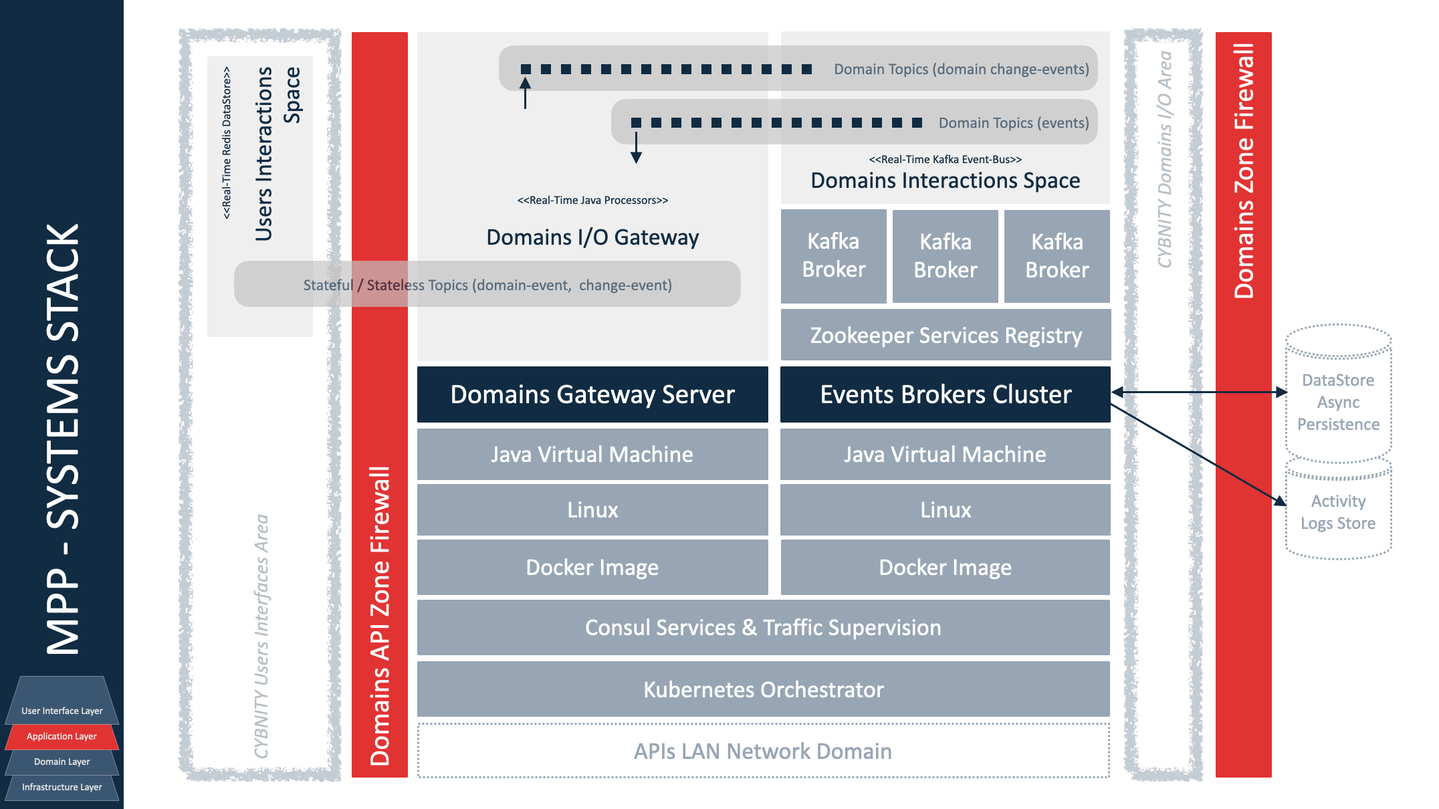
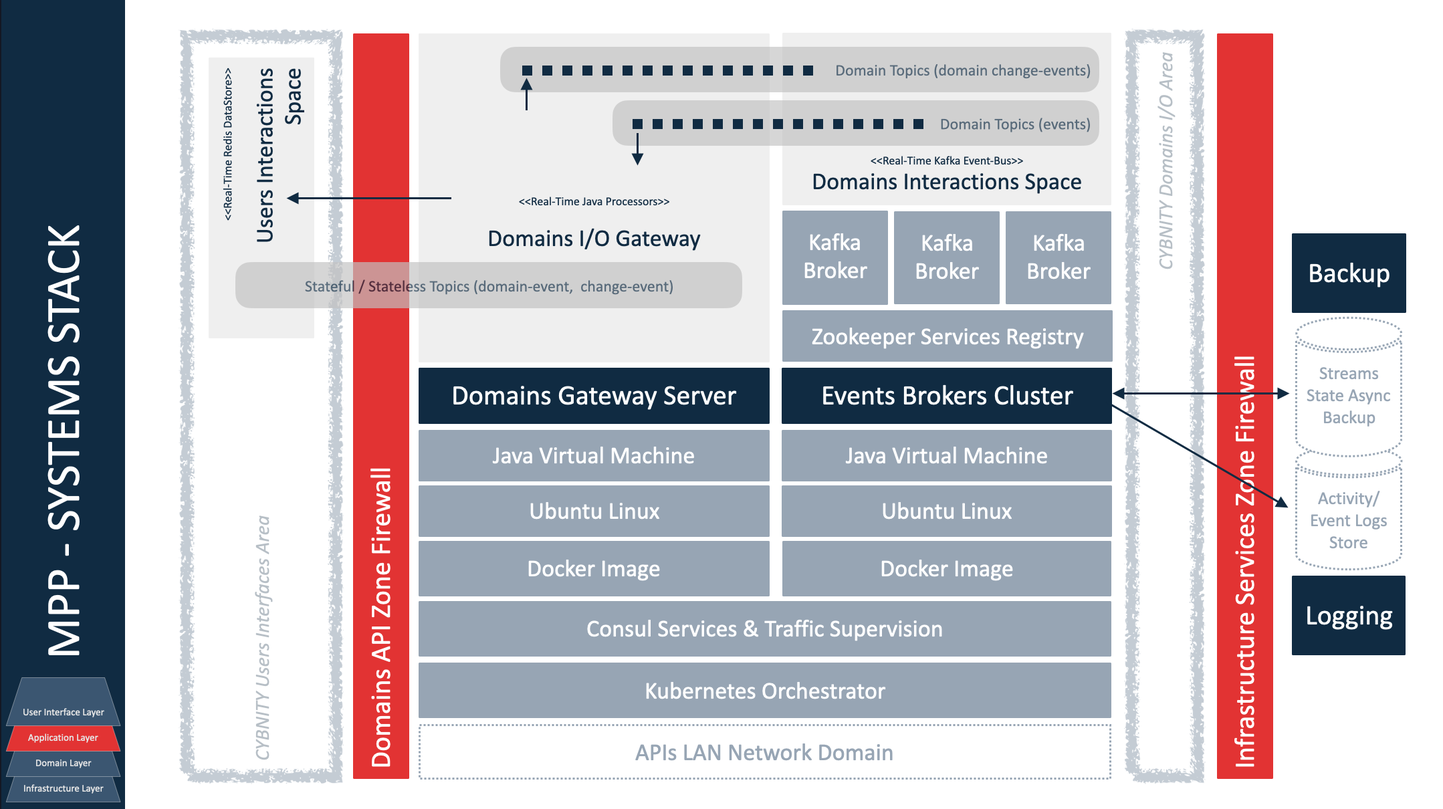
Add infrastructure layer and services

diff --git a/demonstrators-line/demonstrator-v0/technologies-stack-analysis.md b/demonstrators-line/demonstrator-v0/technologies-stack-analysis.md
@@ -59,10 +59,21 @@ Presentation of the retained implementation stack resulting of the analysis step
 
 ## UI Layer
 ![image](mpp-ui-technology-stack.png)
+
 ![image](mpp-ui-systems-stack.png)
+
 ## Application Layer
 ![image](mpp-app-technology-stack.png)
+
 ![image](mpp-app-systems-stack.png)
+
+## Application-Domain Layer
+![image](mpp-domain-technology-stack.png)
+
+![image](mpp-domain-systems-stack.png)
+
+## Infrastructure Layer
+![image](mpp-infrastructure-systems-stack.png)
 
 # STACK DEFINITION PROCESS CURRENT STATUS
 Find here the current selected technologies set which are finally retained as valid stack after their analysis steps passed with success. This is the conclusions that are coming as outputs from the technology analysis stream executed.
@@ -92,9 +103,8 @@ The current status of technology already in the analysis stream give a general v
 | APPLICATION INFRASTRUCTURE | Java Runtime Environment | Liberica JDK | `ALT` | | | |
 | APPLICATION INFRASTRUCTURE | Single-Sign-On | [Keycloack](https://www.keycloak.org/) | X | | | SAML2.0 protocol for user authentication with SSO |
 | APPLICATION INFRASTRUCTURE | UIAM | Identity/Access Mgt | X | | | Federation, RBAC or ABAC based on attributes); SPML ? (to create users/permissions as access provisioning |
-| APPLICATION INFRASTRUCTURE | Application Domains Access Hub | Infinispan | X | | In-memory distributed data store storing, managing, and processing data; [Doc](https://infinispan.org/) |
 | APPLICATION INFRASTRUCTURE | Secrets In Dynamic Infrastructure | [Vault](https://www.vaultproject.io/) | X | | | pki, credentials, passwords, api keys via secrets engines and authentication methods like JWT/LDAP/pki certif/Token for partners API integration/connectors |
-| APPLICATION INFRASTRUCTURE | End-to-end distributed tracing | Jaeger X | | | |
+| APPLICATION INFRASTRUCTURE | End-to-end distributed tracing | Jaeger | X | | |
 | INTEGRATION INFRASTRUCTURE | Users Interactions Space | Redis | `WIN` | | | Datastore with async ports and protocol for application exchanges (e.g domain events and requests); [Redis in action book](https://redis.com/ebook/redis-in-action/); [redis persistence](https://redis.com/redis-enterprise/technology/durable-redis/) |
 | INTEGRATION INFRASTRUCTURE | Services Registry & Coordination | Apache Zookeeper | `WIN` | | | Services and data registry, configuration management with resources directory (e.g Kafka broker instances) |
 | APPLICATION / DOMAIN | Transaction Engine | Saga | X | | | [Pattern documentation](https://microservices.io/patterns/data/saga.html) for microservices |
@@ -104,17 +114,16 @@ The current status of technology already in the analysis stream give a general v
 | INTEGRATION INFRASTRUCTURE | External Systems Integration & APIs Management | [Kong API Gateway](https://github.com/Kong/kong) | X | | | |
 | INTEGRATION INFRASTRUCTURE | External Systems Integration & APIs Management | Apiman.io (async) | X | | | |
 | INTEGRATION INFRASTRUCTURE | External Systems Integration & APIs Management | Akana | X | | | |
-| PERSISTENCE INFRASTRUCTURE | Streams State Async Backup | Cassandra | `WIN` | | | NoSQL database for backup of event streams (write optimized) |
-| PERSISTENCE INFRASTRUCTURE | Streams State Async Backup | MongoDB | `ALT` | | | Autonomous dynamic backup/recovery of distributed data, collection-oriented repository |
-| PERSISTENCE INFRASTRUCTURE | Centralized Data Persistence | [InfluxDB](https://www.influxdata.com/) | X | | | Time series data platform |
-| INDEXING INFRASTRUCTURE | Distributed Database Indexing | Elastic Search | X | | | |
-| INDEXING INFRASTRUCTURE | Distributed Database Indexing | Apache Solr | X | | | |
+| INDEXING INFRASTRUCTURE | Contents Indexing | Apache Solr | `WIN` | | | Lucene indexing and query of time series contents (e.g logs, backups), documents (e.g pdf) |
+| PERSISTENCE INFRASTRUCTURE | Activity / Event Logs Store | [InfluxDB](https://www.influxdata.com/) | `WIN` | | | Time series data platform as NoSQL database for backup of event streams (write optimized) efficient for event logging |
+| PERSISTENCE INFRASTRUCTURE | Streams State Async Backup | MongoDB | `WIN` | | | Autonomous dynamic backup/recovery of distributed data, collection-oriented repository |
+| PERSISTENCE INFRASTRUCTURE | In-Memory Data Grid | Infinispan | X | | In-memory distributed data store storing, managing, and processing data; [Doc](https://infinispan.org/) |
 | SECURITY INFRASTRUCTURE | Traffic Health, Configuration Mesh & Networking | Consul | `WIN FOR SERVER-SIDE` | | | Service registration and discovery, health checking, distributed key-value store, TLS, ACL to data & api, key generation, dynamic load balancing, multi-data centers support, data encryption, REST api, CLI, administration web-ui |
 | SECURITY INFRASTRUCTURE | Services Observability, Traffic & Security Monitoring | Istio | `ALT FOR SERVER-SIDE` | | | Settings mesh of container urls to maintain service information like  track/monitor services, load balancing, services discovery and registration; competitor of Consul about several capabilities |
-| MONITORING INFRASTRUCTURE | APIs Monitoring | Kibana | X | | | |
 | MONITORING INFRASTRUCTURE | APIs Monitoring | Grafana | X | | | |
+| MONITORING INFRASTRUCTURE | APIs Monitoring | OpenTelemetry | X | | | |
 | MONITORING INFRASTRUCTURE | APIs Monitoring | Jaeger | X | | | |
-| OPERATING INFRASTRUCTURE | Operating System | Linux Distribution 64bits kernel | X | | | (Alpine, Debian, Ubuntu?) |
+| OPERATING INFRASTRUCTURE | Linux Operating System | Ubuntu 64bits kernel | `WIN` | | | LTS minimal optimized version, security patch and vulnerability monitoring by Canonical |
 | OPERATING INFRASTRUCTURE | Executable System | Docker Image | `WIN` | | | |
 | OPERATING INFRASTRUCTURE | Infra-As-Code Execution | Microk8s | X | | | Kubernetes for laptop, local dev deployment |
 | OPERATING INFRASTRUCTURE | Infra-As-Code Execution | Minikube | X | | | Kubernetes for laptop, local dev deployment |
@@ -143,17 +152,21 @@ The criteria checked about advantages (ADV) are:
 
 | CANDIDATE TECHNOLOGY | Description | Comments | ANALYSIS RESULT |
 | :--- | :--- | :--- | :--- |
-| [Apache Solr](https://solr.apache.org/) |Scalable, fault tolerant, providing distributed indexing, replication and load-balanced querying, automated failover and recovery, centralized configuration<br>**ADV02:** Docker and Kubernetes compatible| | |
 | [Jaeger](https://www.jaegertracing.io/) |End-to-end distributed tracing| | |
-| MongoDB |NoSQL database (using an objective-oriented or data-oriented model)<br>**ADV03:** written in C++; store unstructured data; no function or stored procedure where the logic can be bound; not ACID-compliant; in-Memory or WiredTiger storage systems; deep query capability, which supports dynamic document queries using a dedicated language; can index any attribute<br>**ADV04:** used by Adobe, BOSH, Cisco, eBay, Facebook, Forbes, Google, SAP, and UPS|**Advantage:** very efficient in cases where significant scalability and caching for real-time analytics on unstructured data is required; high insert rate which is useful in a situation where the write load is high; internal memory for storing the working set (read access)<br>**Disadvantage:** is not built for transactional data (doesn’t support transactions); requires more storage than other well-known databases; doesn’t automatically clean up its disk space, so it must be done manually or with a restart; single master node|`OK`|
+| [Open Telemetry](https://grafana.com/oss/opentelemetry) |Tools, APIs, DSKs to instrument, generate, collect and export telemetry data (e.g metrics, logs, traces)| | |
+| Promotheus |Pull-based system as monitoring solution allowing applications to publish the required metrics fetched by Promotheus periodically; key/value datastore utilizing LevelDB for the indices and ecah metric is stored in its own file<br>**ADV03:** compatible with Grafana for data visualization; PromQL for query; alert manager with notification tasks (deduplication, silencing, grouping features)|**Advantage:** take less disk space than InfluxDB; focused on metrics recording<br>**Disadvantage:** independant server without multi-nodes support to support load growth|`OK for metrics recording only`|
+| InfluxDB |Open source Time-Series Database (TSDB) developed by Influxdata, primarily used to process monitoring data as monitoring solution<br>**ADV01:** MIT license<br>**ADV02:** Linux, Windows, OSX, Docker, Kubernetes, Raspberry Pi installations supported<br>**ADV02:** monolithic data storage for indices and metric values<br>**ADV03:** developed in Go language; sharding for partitioning method; primary database model as time series DBMS; secondary database model as spatial DBMS; high-availability storage of time-series data; use SQL queries to retrieve data (stored in a key-value pair fashion); support data via HTTP, TCP and JSON/UDP protocols; Kapacitor for background processing and data alerting; Chronograf for UI; integration with Grafana for visualization; InfluxQL query language; numeric data and strings predefined data types; no XML support; no Map Reduce capability|**Advantage:** easy to set up; great alternative to ElasticSearch if monitoring is main purpose|**Advantage:** query performance (45x better than Cassandra for read); 2X better than Cassandra on disk compression; suitable for event logging|`OK for event logging`|
+| [Apache Solr](https://solr.apache.org/) |Scalable to build search applications, fault tolerant, providing distributed indexing, replication and load-balanced querying, automated failover and recovery, centralized configuration<br>**ADV01:** Apache 2<br>**ADV02:** Docker and Kubernetes compatible; search engine based on Apache Lucene java library to create inverted index (page-centric data structure like convertion of document to words, is converted into a keyword-centric structure); HTTP/XML web api interface for query of JSON documents; scalable only via SolrCloud and zookeeper; eventual consistency concepts to ensure consistency in a distributed system; optimistic locking for transaction<br>**ADV03** text search and related operations; support JSON or XML; sharding (distributed way to store and process data); schema-less mapping; full-text search; real-time indexing; dynamic clustering; support RDBMs (Oracle, NoSQL); primary database model as search engine; secondary database model as spatial DBMS; customizable predefined data types and automatic typing; secondary index for all fields automatically indexed; Java API, RESTful HTTP/JSON API; commands triggered on index changes; Map Reduce capability (and streaming expressions to reduce)<br>**ADV04:** since 2004, with large community; [Stratio github project](https://github.com/Stratio/cassandra-lucene-index) for integration between Cassandra an Solr|**Advantage:** level of customization for search queries assembled and executed; flexibility for indexing several types of contents; index changes triggering; rich documentation and extension capabilities|`COOL`|
+| Elastic Search |Open source search engine<br>**ADV02:** based on Lucene library<br>**ADV03:** sharding (distributed way to store and process data); schema-less mapping|**Disadvantage:** performance problem feedbacks; cost growth in production usage; less open than Apache Solr|`KO`|
+| MongoDB |NoSQL database (using an objective-oriented or data-oriented model)<br>**ADV02:** Linux, Window, Mac OS supported<br>**ADV03:** written in C++; store unstructured data; no function or stored procedure where the logic can be bound; not ACID-compliant; in-Memory or WiredTiger storage systems; deep query capability, which supports dynamic document queries using a dedicated language; can index any attribute<br>**ADV04:** used by Adobe, BOSH, Cisco, eBay, Facebook, Forbes, Google, SAP, and UPS|**Advantage:** very efficient in cases where significant scalability and caching for real-time analytics on unstructured data is required; high insert rate which is useful in a situation where the write load is high; internal memory for storing the working set (read access)<br>**Disadvantage:** is not built for transactional data (doesn’t support transactions); requires more storage than other well-known databases; doesn’t automatically clean up its disk space, so it must be done manually or with a restart; single master node|`OK`|
 | Redis |**ADV02:** Active-Active and Active-Passive distributed architectures for high availability; search capabilities and a linearly scaling high performance <br>**ADV03:** different data structures including Hashes, Bitmaps, Lists, Sets, Strings supported|**Advantage:** NoSQL access speed|`OK`|
 | OrientDB |NoSQL graph database, focused on scalability and performance<br>**ADV03:** unified Multi-Model API for quicker deployment|**Advantage:** free clustering<br>**Disdavantage** compatibility issues, poor documentation, and the high cost of hosting|`KO`|
-| CouchDB |Open-source NoSQL Database written in the Erlang programming language; document-oriented database that can be deployed as a standalone application framework or with high-volume distributed applications, particularly web applications capable of handling huge volumes of loosely structured data<br>**AD02:** multi-node cluster<br>**ADV03:** JSON format to store data, organized into key-value pairs which are similar to the MapReduce format; provides interaction with external tools like HTTP proxy servers, load balancers; authentication and session support|**Disadvantage:** users have complained of an unfriendly user interface and lack of full-stack search;allows to run a single logical database server which can be run on any number of virtual machines|`KO`|
-| Apache [Cassandra](https://cassandra.apache.org/_/index.html) |NoSQL database (using a traditional model with a table structure, using rows and columns) written in Java with design objectives like full multi-master database replication, low latency, linear throughput increase with each additional processor, partitioned key-oriented queries; peer-to-peer architecture rather than master-slave architecture<br>**ADV01:** Apache 2.0 license<br>**ADV02:** [Docker install](https://cassandra.apache.org/_/quickstart.html) available; support for replication of data across multiple data centers; data is replicated to multiple nodes to give a fault-tolerance system and ensure durability; every node in the cluster is identical, is separate and can function independently; while Cassandra can be made to run on small servers for testing or development environments (including Raspberry Pis), a minimal production server [requires](https://cassandra.apache.org/doc/latest/cassandra/operating/hardware.html) at least 2 cores, and at least 8GB of RAM. Typical production servers have 8 or more cores and at least 32GB of RAM; multiple nodes (assortment of master nodes providing higher availability, compared to MongoDB’s limited availability)<br>**ADV03:** synchronous or asynchronous replication for each update; audit logging feature for operators tracking the DML, DDL, and DCL activity; partitioned wide column storage model with eventually consistent semantics; Cassandra Query Language (CQL); user-defined types, functions and aggregates; collection types including sets, maps, and lists; TLS/SSL for client authorization and [several security features](https://cassandra.apache.org/doc/latest/cassandra/operating/security.html);  Java 8/11 supported; [Audit logging](https://cassandra.apache.org/doc/latest/cassandra/new/auditlogging.html) for all database activity logged per-node as file-based records to a specified local filesystem directory (no additional database capacity is needed to store audit logs; latency of database operations is not affected); Ubuntu, CentOS, Debian or RPM [install](https://cassandra.apache.org/doc/latest/cassandra/getting_started/installing.html); lacks official documentation from Apache<br>**ADV04:** designed at Facebook using a staged event-driven architecture (SEDA) to implement a combination of Amazon’s Dynamo distributed storage and replication techniques and Google’s Bigtable data and storage engine model; used by Digg, Facebook, IBM, Instagram, Spotify, Netflix, and Reddit|**Disadvantage:** cluster only (min 3 servers are required for cluster);  not supported features (cross partition transactions, distributed joins, foreign keys or referential integrity); transactions slow down, meaning latency issues; no join or subquery support; doesn’t support aggregates<br>**Advantage:** high-performance database manager that easily handles massive amounts of data; optimized from the start for fast writes|`COOL`|
-| ArangoDB |NoSQL database management system as native multi-model database from the ground up, supporting key/value, document and graph models<br>![image](scalability-vs-complexity-by-arangoDB.png)<br>**ADV01:** Not open source<br>**ADV02:** Cloud service [managed version](https://cloud.arangodb.com/home?utm_source=arangodb_website&utm_medium=top_page&utm_campaign=traffic) ; single server, active-failover & cluster modes<br>**ADV03:** SQL-like query language and a flexible data model for key values, graphs, and documents; has a built-in search engine and a microservices framework; search queries with geo-locational aspects; AQL; replication sync/async; resolution conflict for Master/Master and Master/Agent modes; [ArangoDB vs Cassandra](https://www.arangodb.com/solutions/comparisons/arangodb-vs-cassandra/)<br>**ADV04:** supported by a large community of user|**Advantage:** multi-model document, graph or key/value store<br>**Disadvantage:** not open source solution|`KO`|
+| CouchDB |Open-source NoSQL Database written in the Erlang programming language; partitioned row store as document-oriented database that can be deployed as a standalone application framework or with high-volume distributed applications, particularly web applications capable of handling huge volumes of loosely structured data<br>**AD02:** multi-node cluster<br>**ADV03:** primarily database model as Wide column store; JSON format to store data, organized into key-value pairs which are similar to the MapReduce format; provides interaction with external tools like HTTP proxy servers, load balancers; authentication and session support|**Disadvantage:** users have complained of an unfriendly user interface and lack of full-stack search;allows to run a single logical database server which can be run on any number of virtual machines|`KO`|
+| Apache [Cassandra](https://cassandra.apache.org/_/index.html) |NoSQL database (using a traditional model with a table structure, using rows and columns) written in Java with design objectives like full multi-master database replication, low latency, linear throughput increase with each additional processor, partitioned key-oriented queries; peer-to-peer architecture rather than master-slave architecture<br>**ADV01:** Apache 2.0 license<br>**ADV02:** [Docker install](https://cassandra.apache.org/_/quickstart.html) available; support for replication of data across multiple data centers; data is replicated to multiple nodes to give a fault-tolerance system and ensure durability; every node in the cluster is identical, is separate and can function independently; while Cassandra can be made to run on small servers for testing or development environments (including Raspberry Pis), a minimal production server [requires](https://cassandra.apache.org/doc/latest/cassandra/operating/hardware.html) at least 2 cores, and at least 8GB of RAM. Typical production servers have 8 or more cores and at least 32GB of RAM; multiple nodes (assortment of master nodes providing higher availability, compared to MongoDB’s limited availability); BSD/Linux/OS X/Windows installation<br>**ADV03:** synchronous or asynchronous replication for each update; audit logging feature for operators tracking the DML, DDL, and DCL activity; partitioned wide column storage model with eventually consistent semantics; Cassandra Query Language (CQL); user-defined types, functions and aggregates; collection types including sets, maps, and lists; TLS/SSL for client authorization and [several security features](https://cassandra.apache.org/doc/latest/cassandra/operating/security.html);  Java 8/11 supported; [Audit logging](https://cassandra.apache.org/doc/latest/cassandra/new/auditlogging.html) for all database activity logged per-node as file-based records to a specified local filesystem directory (no additional database capacity is needed to store audit logs; latency of database operations is not affected); Ubuntu, CentOS, Debian or RPM [install](https://cassandra.apache.org/doc/latest/cassandra/getting_started/installing.html); lacks official documentation from Apache; proprietary protocol and Thrift APIs<br>**ADV04:** designed at Facebook using a staged event-driven architecture (SEDA) to implement a combination of Amazon’s Dynamo distributed storage and replication techniques and Google’s Bigtable data and storage engine model; used by Digg, Facebook, IBM, Instagram, Spotify, Netflix, and Reddit|**Disadvantage:** cluster only (min 3 servers are required for cluster);  not supported features (cross partition transactions, distributed joins, foreign keys or referential integrity); transactions slow down, meaning latency issues; no join or subquery support; doesn’t support aggregates<br>**Advantage:** high-performance database manager that easily handles massive amounts of data; optimized from the start for fast writes<br>**Disadvantage:** proprietary api|`KO`|
+| [ArangoDB](https://www.arangodb.com) |NoSQL database management system as native multi-model database from the ground up, supporting key/value, document and graph models<br>![image](scalability-vs-complexity-by-arangoDB.png); search engine capabilities<br>**ADV01:** Apache 2 open source version<br>**ADV02:** Cloud service [managed version](https://cloud.arangodb.com/home?utm_source=arangodb_website&utm_medium=top_page&utm_campaign=traffic) ; single server, active-failover & cluster modes<br>**ADV03:** SQL-like query language and a flexible data model for key values, graphs, and documents; has a built-in search engine and a microservices framework; search queries with geo-locational aspects; AQL; replication sync/async; resolution conflict for Master/Master and Master/Agent modes; [ArangoDB vs Cassandra](https://www.arangodb.com/solutions/comparisons/arangodb-vs-cassandra/); full-text search|**Advantage:** multi-model document, graph or key/value store<br>**Disadvantage:** lack of community|`KO`|
 | Istio |Service mesh dedicated infrastructure layer for add to applications to transparently add capabilities like observability, traffic management, and security; A service mesh also often addresses more complex operational requirements, like A/B testing, canary deployments, rate limiting, access control, encryption, and end-to-end authentication; secure, connect, and monitor services (e.g load balancing, service-to-service authentication, and monitoring)<br>**ADV03:** communication in a cluster with TLS encryption; automatic load balancing for HTTP, gRPC, WebSocket, and TCP traffic; control of traffic behavior with routing rules, retries, failovers, and fault injection; pluggable policy layer and configuration API supporting access controls, rate limits and quotas; automatic metrics, logs, and traces for all traffic within a cluster; circuit breaker black-box implementation by configuration only; [SpringCloud to Istio example](from-SpringCloud-to-Istio.pdf)|**Advantage:** non-intrusive traffic management, security and observability<br>**Disadvantage:** Istio needs minimum of 3 instance running for failure tolerance; platform isn’t as lightweight as other options|`OK`|
 | Apache Zookeeper |Maintaining configuration information, naming, providing distributed synchronization, and providing group services<br>**ADV01:** Apache 2.0 license<br>**ADV02:** concept and [performance documentation](https://zookeeper.apache.org/doc/r3.8.0/zookeeperOver.html); Java 1.8+ compatible<br>**ADV03:** Java; Spring/Kafka/Spring Boot support; [documentation](https://zookeeper.apache.org/doc/r3.8.0/index.html); java library for client; [system requirements](https://zookeeper.apache.org/doc/r3.8.0/zookeeperAdmin.html#sc_systemReq); [java example](https://zookeeper.apache.org/doc/r3.8.0/javaExample.html); stand-alone mode and [unique local instance for developer station](https://zookeeper.apache.org/doc/r3.8.0/zookeeperStarted.html#sc_InstallingSingleMode); JMX supported; Grafana, InfluxDB and Prometeus monitoring system supported|**Advantage:** embeddable in Java service |`OK`|
-| Consul |Services discovery (e.g via DNS) with centralized registry; [Architecture](https://www.consul.io/docs/architecture); Distributed key-value store<br>**ADV02:** 512KB RAM limit per key/value size on Consul KV agent datastore; Linux OS (x86, ARM64) compatible; agent installed on OS layer (not embeddable in application infrastructure layer)<br>**ADV03:** [documentation](https://learn.hashicorp.com/collections/consul/getting-started) for deployment on local/server infrastructure; tracking in real-time of services update, health status (registering via HTTP API, query API, services dependencies identification); automating network tasks; securization of service-to-service communications (authentication, authorization, TLS encryption); access control (ACLs) of end points and centralized traffic management; Kubernetes/miniKube compatible (consul client on each Kubernetes cluster node); Consul API gateway for datacenter, network spaces routing/isolation/access control; Consul KV on client as application parameters (e.g key/value) datastore pluggable with Vault (e.g secret values); [Consul ESM](https://github.com/hashicorp/consul-esm) (External Service Monitoring) for auto-check of health status regarding external systems; [embedded consul](https://github.com/pszymczyk/embedded-consul) for integration tests; Java configuration's properties directly from [consul library](https://github.com/Magnetme/consultant) or [CFG4j](http://www.cfg4j.org/); Zero-conf HTTPS load balancing and TCP router with [Fabio project](https://github.com/fabiolb/fabio); [mirror content of git key/value](https://github.com/breser/git2consul) in Consul KV datastore<br>**ADV04:** supported by Hashicorp|**Advantage:** customization of apps and container for automatic CMDB replacement by configurations meshing system; Zero trust approach for networking; easy deployment of observability for applications and containers; Cloud manager offer with price per hour of runtime for easy deployment by CYBNITY customers; high-availability<br>**Disadvantage:** mature and feature-rich, it can be more difficult to master; deployment focused for datacenter/cloud deployment with independent lead servers (see [architecture prerequisites](https://learn.hashicorp.com/tutorials/consul/reference-architecture?in=consul/production-deploy#deployment-system-requirements)), so how best use for stand-alone deployment on mobile platform with limited capacities?|`OK` for server deployment|
+| Consul |Services discovery (e.g via DNS) with centralized registry; [Architecture](https://www.consul.io/docs/architecture); Distributed key-value store<br>**ADV02:** 512KB RAM limit per key/value size on Consul KV agent datastore; Linux OS (x86, ARM64) compatible; agent installed on OS layer (not embeddable in application infrastructure layer)<br>**ADV03:** [documentation](https://learn.hashicorp.com/collections/consul/getting-started) for deployment on local/server infrastructure; tracking in real-time of services update, health status (registering via HTTP API, query API, services dependencies identification); automating network tasks; securization of service-to-service communications (authentication, authorization, TLS encryption); access control (ACLs) of end points and centralized traffic management; Kubernetes/miniKube compatible (consul client on each Kubernetes cluster node); Consul API gateway for datacenter, network spaces routing/isolation/access control; Consul KV on client as application parameters (e.g key/value) datastore pluggable with Vault (e.g secret values); [Consul ESM](https://github.com/hashicorp/consul-esm) (External Service Monitoring) for auto-check of health status regarding external systems; [embedded consul](https://github.com/pszymczyk/embedded-consul) for integration tests; Java configuration's properties directly from [consul library](https://github.com/Magnetme/consultant) or [CFG4j](http://www.cfg4j.org/); Zero-conf HTTPS load balancing and TCP router with [Fabio project](https://github.com/fabiolb/fabio); [mirror content of git key/value](https://github.com/breser/git2consul) in Consul KV datastore<br>**ADV04:** supported by Hashicorp|**Advantage:** customization of apps and container for automatic CMDB replacement by configurations meshing system; Zero trust approach for networking; easy deployment of observability for applications and containers; Cloud manager offer with price per hour of runtime for easy deployment by CYBNITY customers; high-availability<br>**Disadvantage:** mature and feature-rich, it can be more difficult to master; deployment focused for datacenter/cloud deployment with independent lead servers (see [architecture prerequisites](https://learn.hashicorp.com/tutorials/consul/reference-architecture?in=consul/production-deploy#deployment-system-requirements)), so how best use for stand-alone deployment on mobile platform with limited capacities?|`OK for server deployment`|
 | Kafka Streams |Client library for real-time applications and microservices managing input and output data stored in Kafka clusters; processing code runs inside their application<br>**ADV02** Supports exactly-once processing semantics to guarantee that each record will be processed once and only once even when there is a failure on either Streams clients or Kafka brokers in the middle of processing; supports bare-metal hardware, virtual machines, and containers in on-premise as well as cloud environments<br>**ADV03:** Source processors for bridge of input message event, Sink processors for return result to frontend integration hub; Windowing (group records that have the same key for stateful operations such as aggregations or joins into so-called windows); State stores for stateful operations; APIs to store and query data required for processing; servers with [Kafka Connect tool](https://kafka.apache.org/documentation/#connect) for events integration from/to source with Kafka topics that allow development of connectors; [Producer API](https://kafka.apache.org/documentation.html#producerapi) for send event streams to topics; [Consumer API](https://kafka.apache.org/documentation.html#consumerapi) to read streams of data from topics; [Admin API](https://kafka.apache.org/documentation.html#adminapi); [Stream API](https://kafka.apache.org/documentation/streams/); [usage presentations](https://cwiki.apache.org/confluence/display/KAFKA/Kafka+papers+and+presentations)<br>**ADV04:** [several companies](https://cwiki.apache.org/confluence/display/KAFKA/Powered+By) using Kafka; 2016 project started|**Disadvantage:** tightly coupled with Kafka; partial distributed; none CEP (only based on developed handles)|`OK`|
 | Apache Flink |Cluster framework and stateful computations over data streams (e.g stream/batch processing, state mgt, event-time processing, live stream processing of data) for event-driven applications, data analytics or pipeline applications, stateful functions; processing code is deployed and run as a job in the Flink cluster<br>**ADV01:** Apache 2.0<br>**ADV02:** stand-alone cluster on bare-metal hardware, or deployment on YARN/Apache Mesos/Kubernetes; optimized for streaming than for batch processing (e.g better than Apache Spark for real-time processing); print of observed windows more efficient than Kafka streams (see [comparison test](https://dzone.com/articles/kafka-stream-kstream-vs-apache-flink))<br>**ADV03:** docker image; Flink web UI; detailed documentation; FlinkCEP; several connectors (e.g Kafka, ElasticSearch, RabbitMQ); Machine Learning (ML) library for ML pipelines; Gelly (for graph processing); batch processing framework; Maven support; print the pipeline topology (e.g from [web app](https://flink.apache.org/visualizer/)); self-monitoring; [Redis Connector](https://bahir.apache.org/docs/flink/current/flink-streaming-redis/); [Apache Flink Connectors](https://flink-packages.org/)<br>**ADV04:** 2015 project started|**Advantage:** better than Apache Storm for real-time, and good complement to Apache Spark for large data volume processing; full distributed (cluster deployment, HA, fault tolerant) requiring compute resources like Mesos/Kubernetes in order to execute applications (possible run into a stand-alone cluster); native support of CEP; variety of deployment modes; support for multiple third-party sources and sink<br>**Disadvantage:** Eclipse IDe not supported; IntelliJ recommended|`COOL`|
 | [ReactJS](https://reactjs.org/) |Focused on View creation based on JS; update and render just the right components when the data changes (direct link between data state to UI); declarative views; build encapsulated components that manage their own state, then compose them; component logic is written in JavaScript<br>**ADV02:** usage of virtual DOM object (better performance than direct read of DOM); rendering on client or server side<br>**ADV03:** [ReactNative](https://reactnative.dev/) for native Android/iOS applications frontend; XML-like syntax called JSX; maintain internal state data; customizable rendering by components; maven plugin<br>**ADV04:** Facebook project/sponsor; in 2020, React had 1,390 contributions with Angular possessing 1,129 contributions|**Advantage:** data state stored in client side's memory; 10x faster than Angular for view refresh (thanks virtual DOM); data binding capabilities is better for large interactions and rich gui; large support community<br>**Disadvantage:** focused on view rendering, requiring integration with a MVC framework|`COOL`|
@@ -165,12 +178,15 @@ The criteria checked about advantages (ADV) are:
 | Spring Boot |**ADV01:** open source<br>**ADV02:** faster I/O operations compared to Quarkus; robust Dependency Injection Container; mature templates (e.g Spring MVC, ThymeLeaf)<br>**ADV03:** excellent documentation; auto-configuration; YAML support; template design (Thymeleaf, Freemarker, Mustache) pattern in pom.xml; more secure than Quarkus; embed Tomcat/Jetty without WAR file; metrics, health checks, externalized configuration; messaging support for ActiveMQ, RabbitMQ, Apache Kafka; authorization strategies (basic, form login, JWT, SAML, LDAP); OAuth2 support; actuators (expose operational information about running application like health, metric, info, dump, env...)<br>**ADV04:** community support|**Advantage:** SAML supported; several template languages<br>**Disadvantage:** higher startup times compared to Quarkus; lot of dependencies; memory usage|`OK`|
 | Quarkus |Kubernetes-native java framework tailored for GraalVM and HotSpot<br>**ADV01:** Apache 2.0<br>**ADV02:** Boot time<br>**ADV03:** a lot of documentations; Graal or Substrate VM; hot reload (detect Java/resource files changes, recompile and deploy changes); JAX-RS enterprise standards built-on; extensions (e.g Vert.x, Redis Client); Eclipse plugin|**Disadvantage:** optimized for cloud deployment which is not an only CYBNITY targeted deployment model<br>**Advantage:** low memory footprint than Spring Boot, plugins for IoC with Redis/Kafka/Vault...|`KO`|
 | VMWare Tanzu Gemfire |In-memory data management platform, real-time access to data-intensive applications through cloud architectures, memory/CPU/network resources pooling, dynamic replication, data partitioning, asynchronous event notifications, message delivery guarantee|**Disadvantage:** ex-pivotal project taken by VMWare; focus on compatibility with VMWare server-platform|`KO`|
-| Riak KV |Autonomous dynamic backup/recovery of distributed data, collection-oriented repository equals to a set of objects.<br>Clusterised NoSQL database, key-value data model, real-time big data.<br>**ADV01:** Apache 2.0; commercial licenses for multi-cluster replication<br>**ADV02:** integration with Redis caching, Solr; Debian, Ubuntu compatible; TLS|**Disadvantage:** low documentation, tools, integration tools|`KO`|
+| Riak KV |Autonomous dynamic backup/recovery of distributed data, collection-oriented repository equals to a set of objects.<br>Clusterised NoSQL database, key-value data model, real-time big data.<br>**ADV01:** Apache 2.0; commercial licenses for multi-cluster replication<br>**ADV02:** integration with Redis caching, Solr; Debian, Ubuntu compatible; TLS|**Disadvantage:** low documentation, integration tools|`KO`|
 | JavaFX |Native desktop or web application with CSS<br>**ADV01:** GPL licensed<br>**ADV02:** compatible with OpenJDK11+, snapcraft package; ARM compatible via [JFX embedded SDK](https://gluonhq.com/products/mobile/javafxports/get/)<br>**ADV03:** Scene Builder for UI design (FXML based interfaces, 2D/3D scenes); WebKit (browser engine supporting HTML5, CSS, JS, DOM, SVG) based component for JFX UI control (WebEngine and WebView); dynamic deployment of JRE from JFX app start over web page (Java webstart, or JS API); [TestFX](https://github.com/TestFX/TestFX/#features) for simulate user interactions and verify expected states of scene-graph nodes; [visual components and libraries](https://openjfx.io/); [Snapcraft project](https://github.com/jgneff/openjfx) about OpenJFX; [JafaFX framework](https://github.com/topics/javafx-frameworks)|**Advantage:** Webkit engine for web contents interpretation; reused OS native graphic stack via Glass WT|`OK`|
 | Eclipse OpenJ9 8/11 |**ADV01:** Apache license 2.0, [Eclipse Public License 2.0](https://github.com/eclipse-openj9/openj9-docs/blob/master/LICENSE.md)<br>**ADV02:** compatible with AArch64 (v8-A) OpenJDK11/16 for ARM 64bits (Ubuntu 18.04/20.04); comparing to HotSpot, OpenJ9 features quicker start-up times and lower memory consumption; several OpenJDKs (11, 16, 17) supported by OpenJ8 JVM<br>**ADV03:** [Developer tooling](https://www.eclipse.org/openj9/docs/tool_migration/)<br>**ADV04:** runtime engine for many IBM’s enterprise products; new release delivered every quarter|**Advantage:** OpenJDK 11 [performance transparency](https://github.com/eclipse-openj9/openj9-website/blob/master/benchmark/openjdk11-daytrader7.md); Eclipse OMR supporting other languages (e.g JavaScript);Performance optimizations for footprint and startup time|`COOL`|
 | AdoptOpenJDK (Eclipse Adoptium)|**ADV01:** GNU GPL license|**Advantage:** quality program and tools for build and maintain JDK platform supported by a open source community; Tool that make sense for Linux binary usage regarding an OpenJDK compiler used by T21 project; OpenJDK for specification build during development phase; OpenJ9 JVM for runtime to avoid risk linked to OpenJDK in case of conflict between AdoptOpenJDK project and Oracle about sub-license<br>**Disadvantage:** AdoptOpenJDK team need to negotiate with Oracle to maintain compatibility with Java SE for license contract OpenJDK Community TCK. In July 2021, none success discussion with Oracle. Migration to [Eclipse Foundation Adoptium](https://adoptium.net/); what competition with OpenJ9 project could arrive into Eclipse context?|`KO`|
 | Liberica JDK |**ADV01:** JDK 100% open source license, no filed of use restrictions; liberica [NIK end user license agreement](https://bell-sw.com/liberica_nik_eula/); long-term support and guarantee of 8 years Liberica JDK lifetime<br>**ADV02:** ARM 64/32 bit (V8 AArch64); Linux, Debian and Ubuntu (from 12.04 LTS to 20.04 LTS) compatible; OpenJFX supported via LibericalFX (part of JDK and JRE bundles) for Windows, macOS, Linux (libavcodec and libavformat packages (available in Ubuntu 16.04+) are required for Media functionality); smallest Alpine images (lightweight JDK Alpine musl-based images of 41.5 MB) for deploying Docker containers and microservices<br>**ADV03:** tools for monitoring (Java Flight Recorder, Mission Control) by [Bellsoft for free](https://bell-sw.com/announcements/2020/06/24/Java-Flight-Recorder-a-gem-hidden-in-OpenJDK/)(Liberica Mission Control is GPL)<br>**ADV04:** [Java 8 (LTS) to Java 16 supported roadmap](https://bell-sw.com/pages/roadmap/); Unified Java Runtime approach for cloud, server, desktop; Supported HotSpot [JVMs features](https://bell-sw.com/pages/supported-configurations/); Binaries verified with TCK; 6 releases per yer concurrently with Oracle JDK; 30+ team members in San Jose, Boston, St-Petersburg; 7 members are OpenJDK contributors and 3 are OpenJDK reviewers|**Advantage:** diversity of supported Java versions runtime by JDK; Control and care of license topics (e.g sub-GPL contamination risks) by Bellsoft skills|`COOL`|
 | Oracle GraalVM |Compilation of a OpenJFX application and a JVM into one native image ready for deployment like an integrated app/vm |**Disadvantage:** unknown Oracle licensing politic evolution; Oracle effort focused on server-side|`KO`|
+| Ubuntu |**ADV02:** minimal Docker images available on Docker Hub; minimal Ubuntu images (optimized kernel for cloud use at scale, less than 50% the size of a standard server image, reduced package set, up to 40% faster boot-up time than a standard server image) do not include documentation, editors, locales, or other user-oriented features of standard Ubuntu Server images<br>**ADV03:** dockerfile instruction ("FROM ubuntu:18.04")|**Advantage:** kernel optimization adn security patch from Canonical; Canonical's support can be purchased by CYBNITY client for operating/security|`COOL`|
+| Debian |Linux operating system<br>**ADV02:** Debian provide us with several repositories inline which contain packages, it contains free and non-free software; some variants published by Ubuntu with a slimmer base, such as buster-slim and 10.3-slim<br>**ADV03:** APT for packages management; localization support, which means various parts of the Debian are translated into the other language wither than American English; Debian comes up with the paid support, documentation, and community support as well. For community support, email and online chatting are available to provide support to the Debian user. They also provide us with the very comprehensive documentation for it; online available repositories that contain thousands of packages<br>**ADV04:** most popular and best choice for servers; Base of Ubuntu distribution with large usage| **Advantage:** popularity and standardized packaged|`OK`|
+| Fedora | Fedora Core Os optimized for docker images<br>**ADV03:** security enhance Linux by default, which internally implements and support various and different kind of security policies; comes up with the paid, community, and documentation support for the user; provide the comprehensive documentation support<br>**ADV04:** has millions of users available because of the features and security it offers|**Advantage:** security focused<br>**Disadvantage:** lot of updates quickly, but generator of potential bug/security threat without commercial support for companies|`KO`|
 
 ## STEP 2 - Acceptance check regarding impact on other components required
 Only the technologies set identified as acceptable or good are studied during this phase.
@@ -203,15 +219,18 @@ The acceptance level per differentiation criteria is evaluated as:
 | Eclipse Vert.x Web | | | | | | | |
 | Jedis | | | | | | | |
 | Redis | | | | | | | |
-| Kafka | | | | | | | |
-| Flink | | | | | | | |
-| Cassandra | | | | | | | |
+| Apache Kafka | | | | | | | |
+| Apache Flink | | | | | | | |
+| Apache Solr | | | | | | | |
+| MongoDB | | | | | | | |
+| InfluxDB | | | | | | | |
 | Spring Core | | | | | | | |
 | Spring Boot | | | | | | | |
-| Zookeeper | | | | | | | |
-| Eclipse OpenJ9 8/11 | | | | | | | |
+| Apache Zookeeper | | | | | | | |
+| Liberica JDK | | | | | | | |
+| Eclipse OpenJ9 8/11 JRE | | | | | | | |
 | Consul | | | | | | | |
-| Linux | | | | | | | |
+| Linux Ubuntu (minimal for Docker)| | | | | | | |
 | Docker | | | | | | | |
 | Kubernetes | | | | | | | |
 
